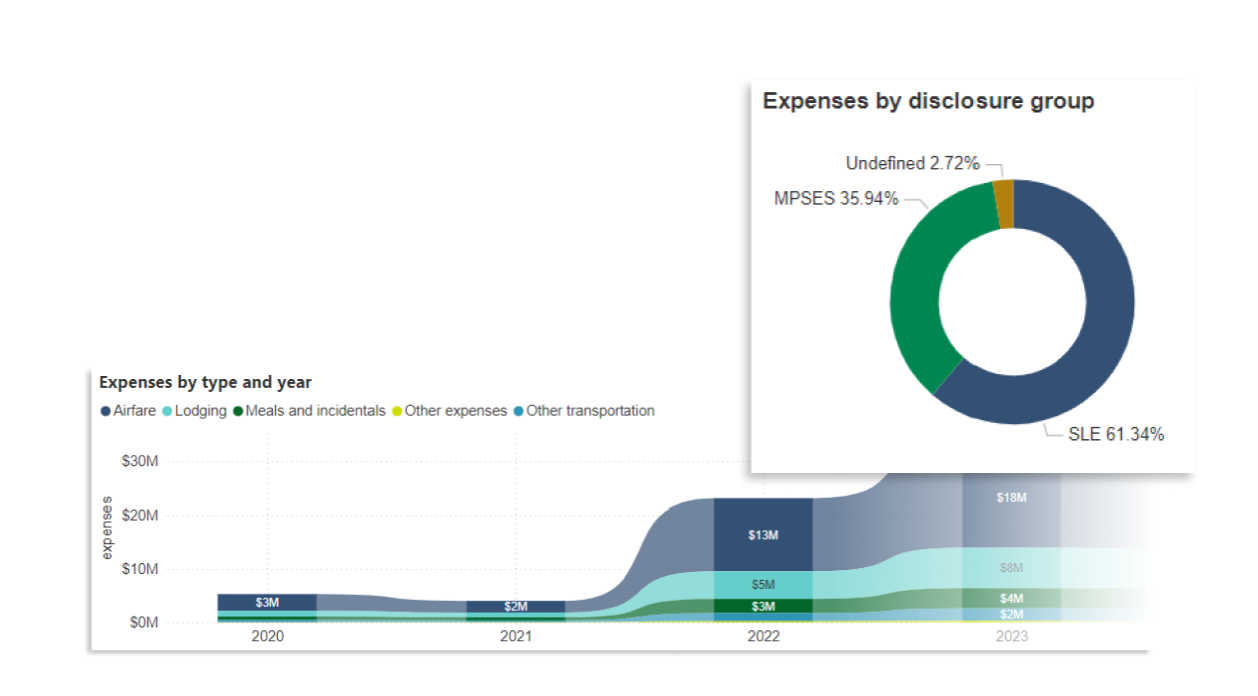
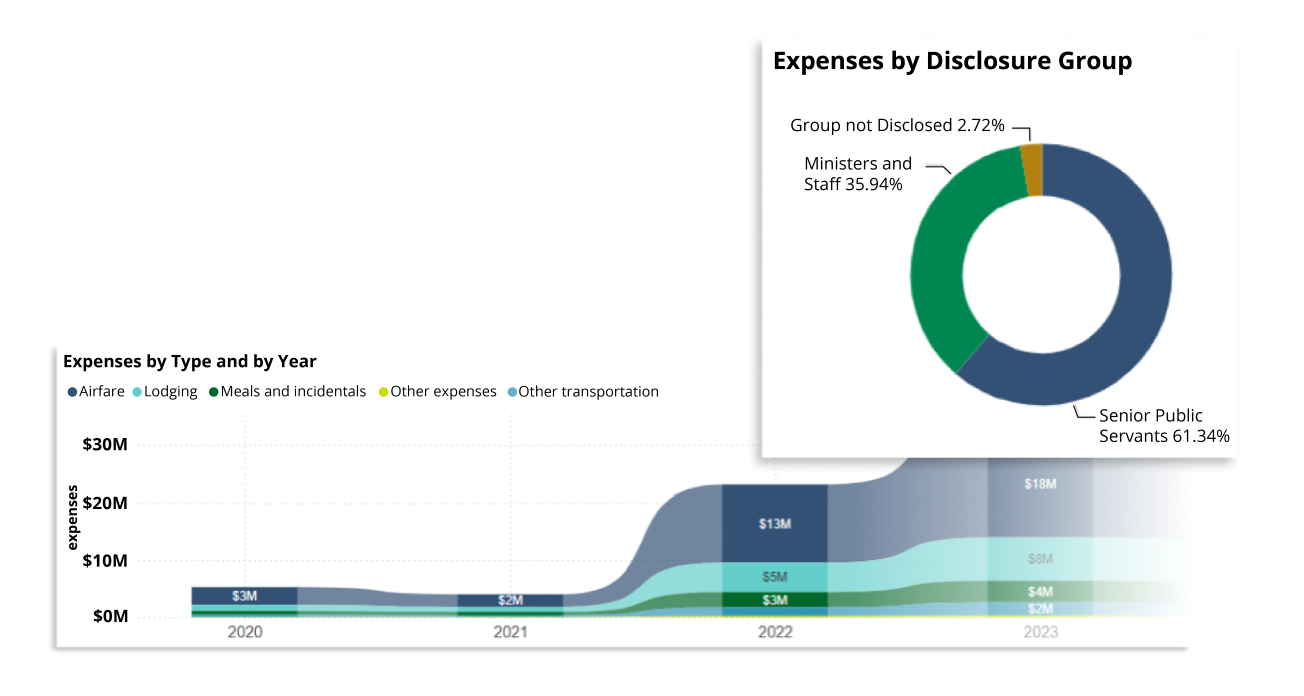
update travelq search teaser with new images

Changed region(s): [[0.031, 0.0603, 0.961, 0.9655]]

diff --git a/travelq/snippets/travelq_default_main_content_body_top.html b/travelq/snippets/travelq_default_main_content_body_top.html
@@ -30,7 +30,7 @@
     <div class="row">
       <div class="col-md-4 col-xs-12" style="font-family: Lato,sans-serif;">
         <div>Explore travel expenses for different organizations. You can view costs, create reports, and share the info.</div>
-        <div class="text-left mrgn-tp-lg"><a href="https://staging.open.canada.ca/data/en/dataset/009f9a49-c2d9-4d29-a6d4-1a228da335ce/resource/3a3c92ab-ee12-4873-9542-3ff04efb8545" class="btn btn-primary" role="button" alt="Link to visualization">Explore</a></div>
+        <div class="text-left mrgn-tp-lg"><a href="https://open.canada.ca/data/en/dataset/009f9a49-c2d9-4d29-a6d4-1a228da335ce/resource/3a3c92ab-ee12-4873-9542-3ff04efb8545" class="btn btn-primary" role="button" alt="Link to visualization">Explore</a></div>
       </div>
       <div class="col-md-8 col-xs-12"><img src="{% static 'search_snippets/custom/travelq/tr_teaser-en.png' %}" class="img-responsive full-width teaser-img-right" alt="Examine the Travel Expenses Data Visualization"></div>
     </div>
